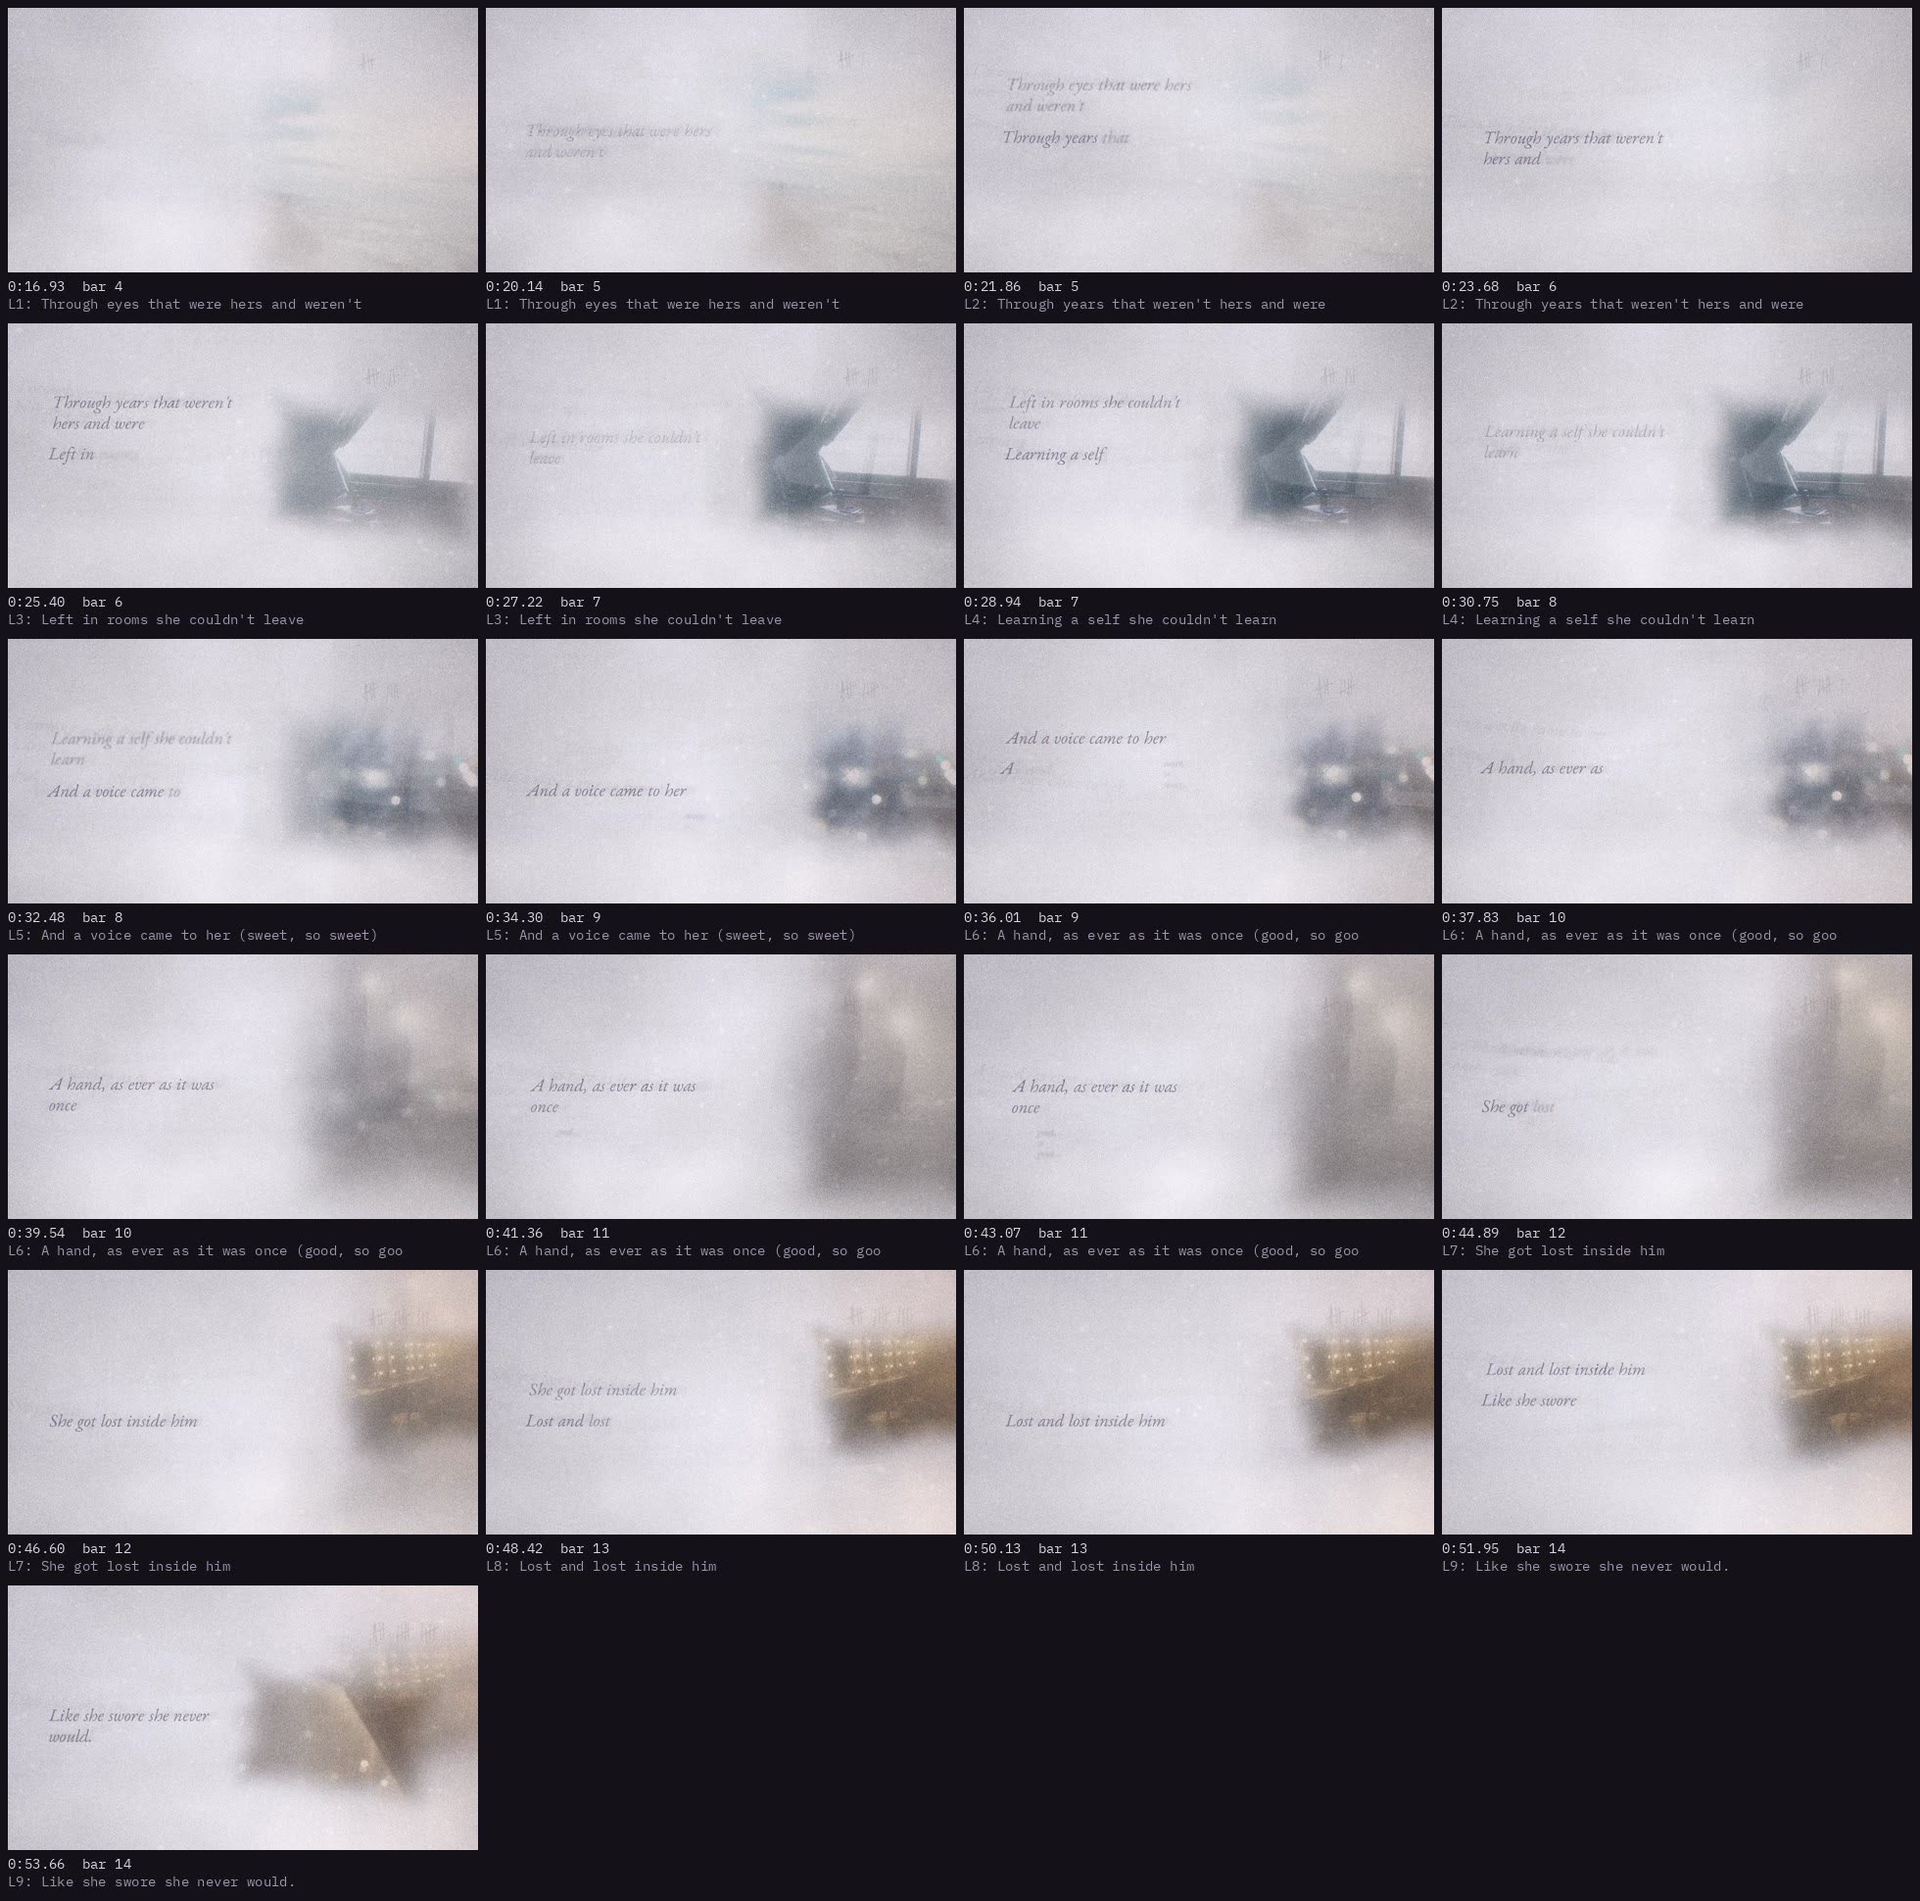
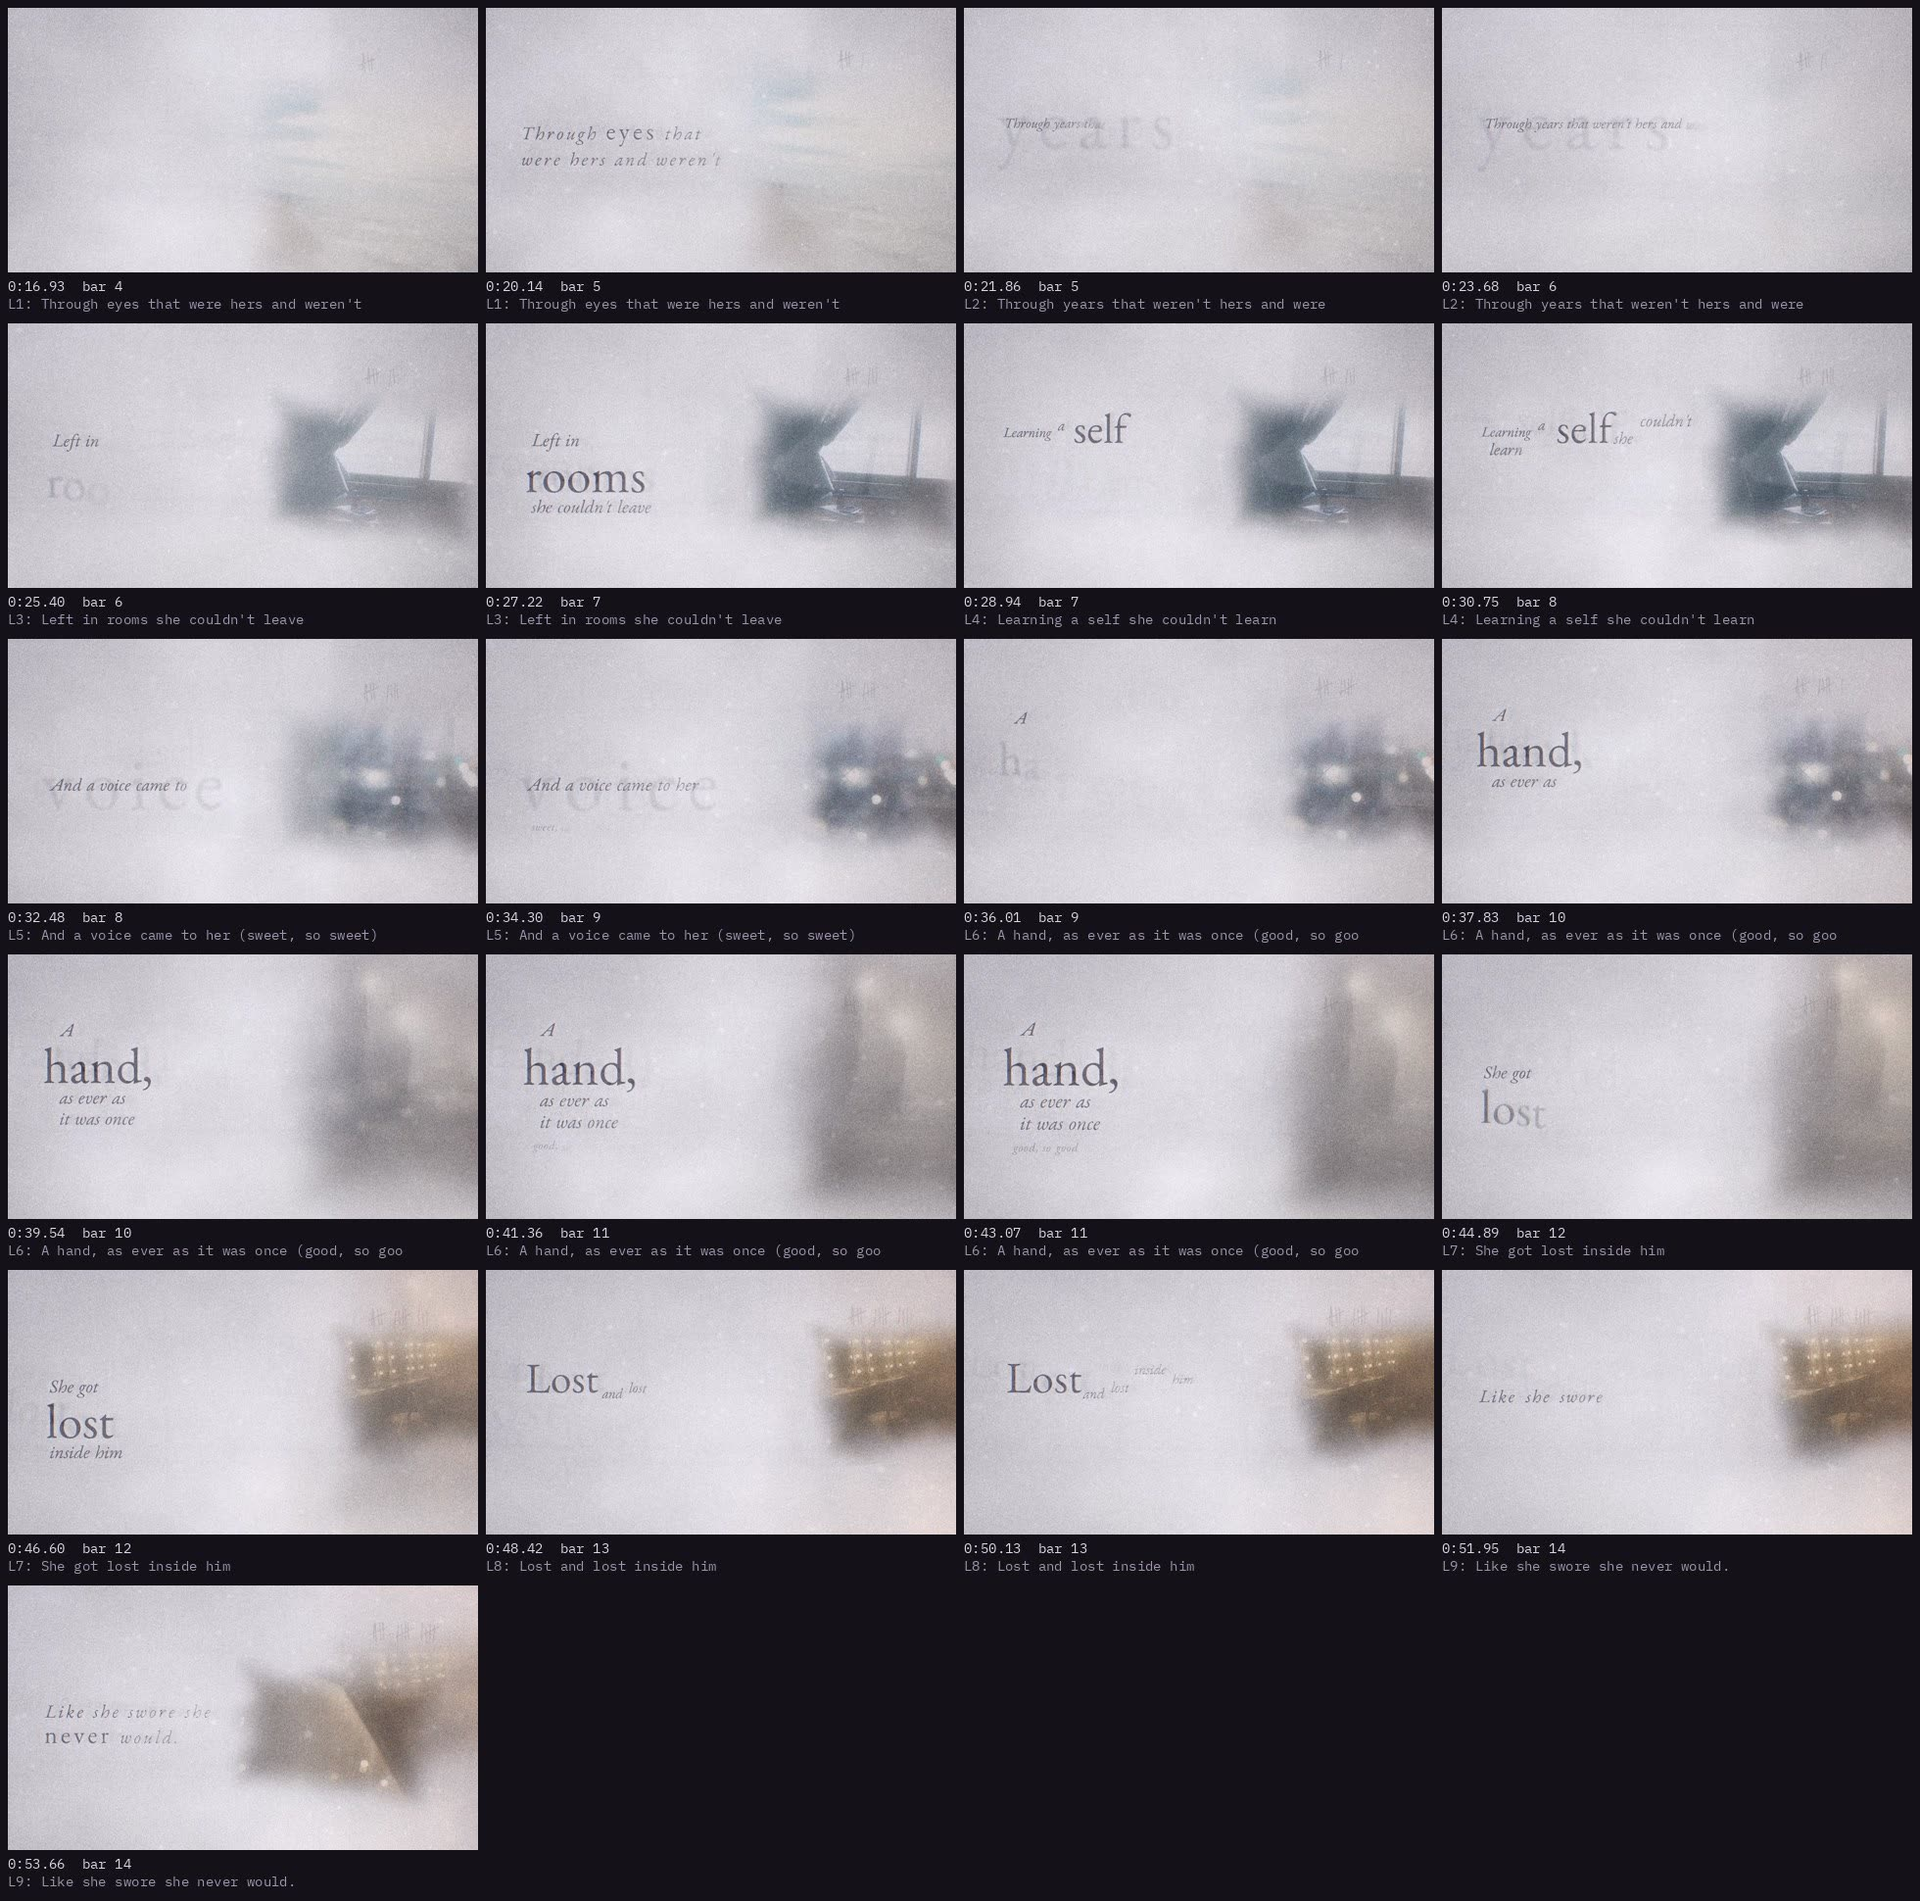
Re-render Verse A with kinetic typography; update storyboard
Claude-Session: https://claude.ai/code/session_013aPae8dR11r7xw8o95d9Yi

diff --git a/storyboard/index.html b/storyboard/index.html
@@ -150,7 +150,7 @@ ol.steps li::marker { font: 600 0.85rem var(--mono); color: var(--ink-2); }
   </video>
   <figcaption><b>Verse A: Through eyes</b>
     <span class="tc">0:16.9 → 0:55.2 · bars 5–14</span>
-    <span class="note">Drifting memory photographs (real, contemporary, CC0/public domain) with ghostly optics: glow, lens defocus, light-falloff edges, film grain. Web copy at 720p; the 1080p master passed QA and ffprobe. <a href="renders/verse_a_contact.jpg">Contact sheet</a></span></figcaption>
+    <span class="note">Kinetic typography (a designed shot per line, hero words, per-letter timing, camera through the type) over drifting memory photographs. Web copy at 720p; the 1080p master passed QA and ffprobe. <a href="renders/verse_a_contact.jpg">Contact sheet</a></span></figcaption>
 </figure></div>
   </section>
 

diff --git a/storyboard/spec.py b/storyboard/spec.py
@@ -203,5 +203,5 @@ STYLE_FRAMES = [
 # Sections built so far: (slug, section name, note shown under the player)
 RENDERS = [
     ("verse_a", "Verse A: Through eyes",
-     "Drifting memory photographs (real, contemporary, CC0/public domain) with ghostly optics: glow, lens defocus, light-falloff edges, film grain. Web copy at 720p; the 1080p master passed QA and ffprobe."),
+     "Kinetic typography (a designed shot per line, hero words, per-letter timing, camera through the type) over drifting memory photographs. Web copy at 720p; the 1080p master passed QA and ffprobe."),
 ]
